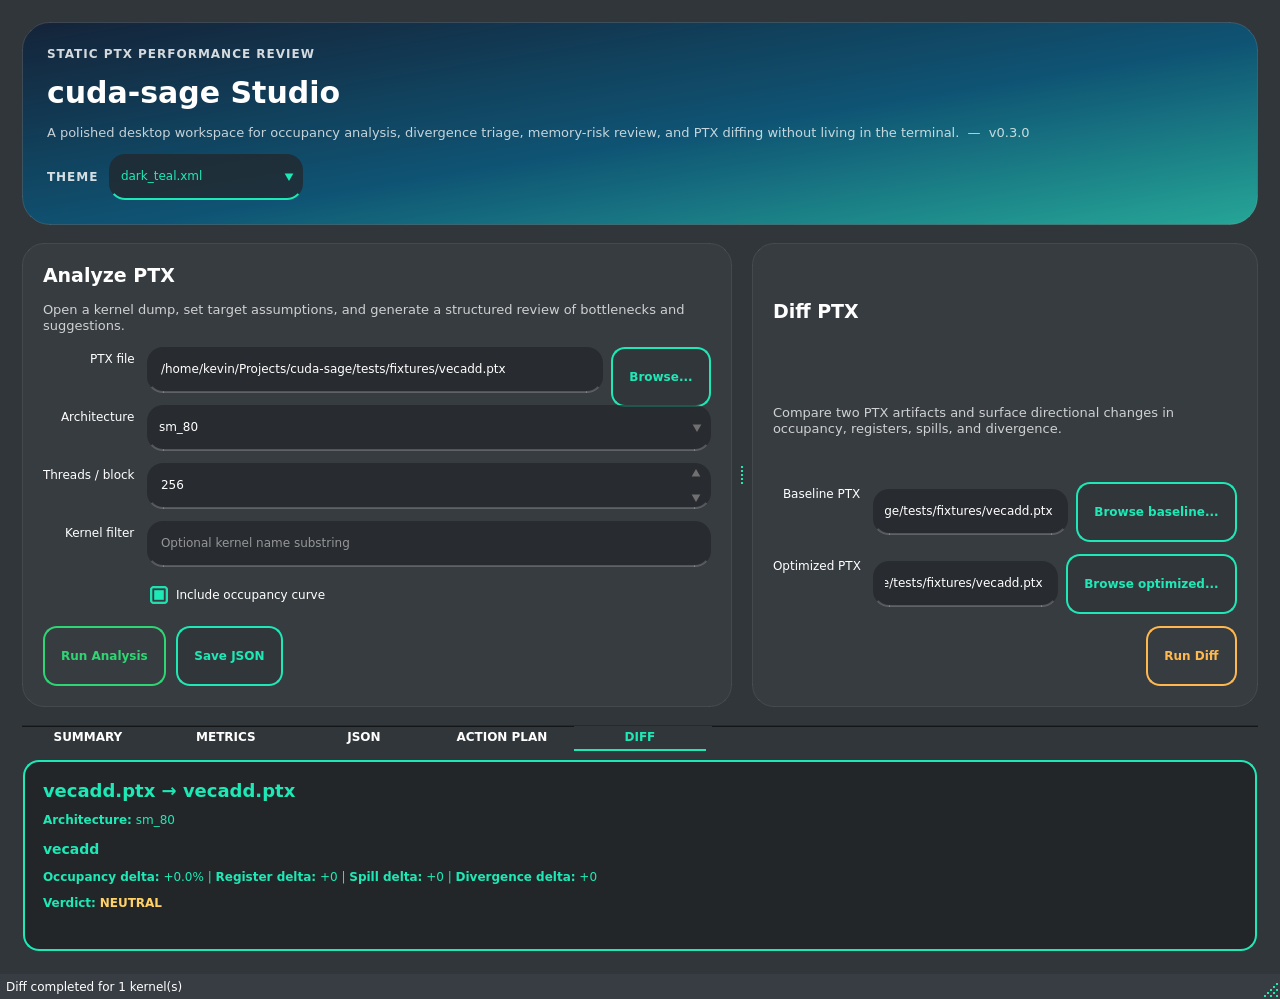
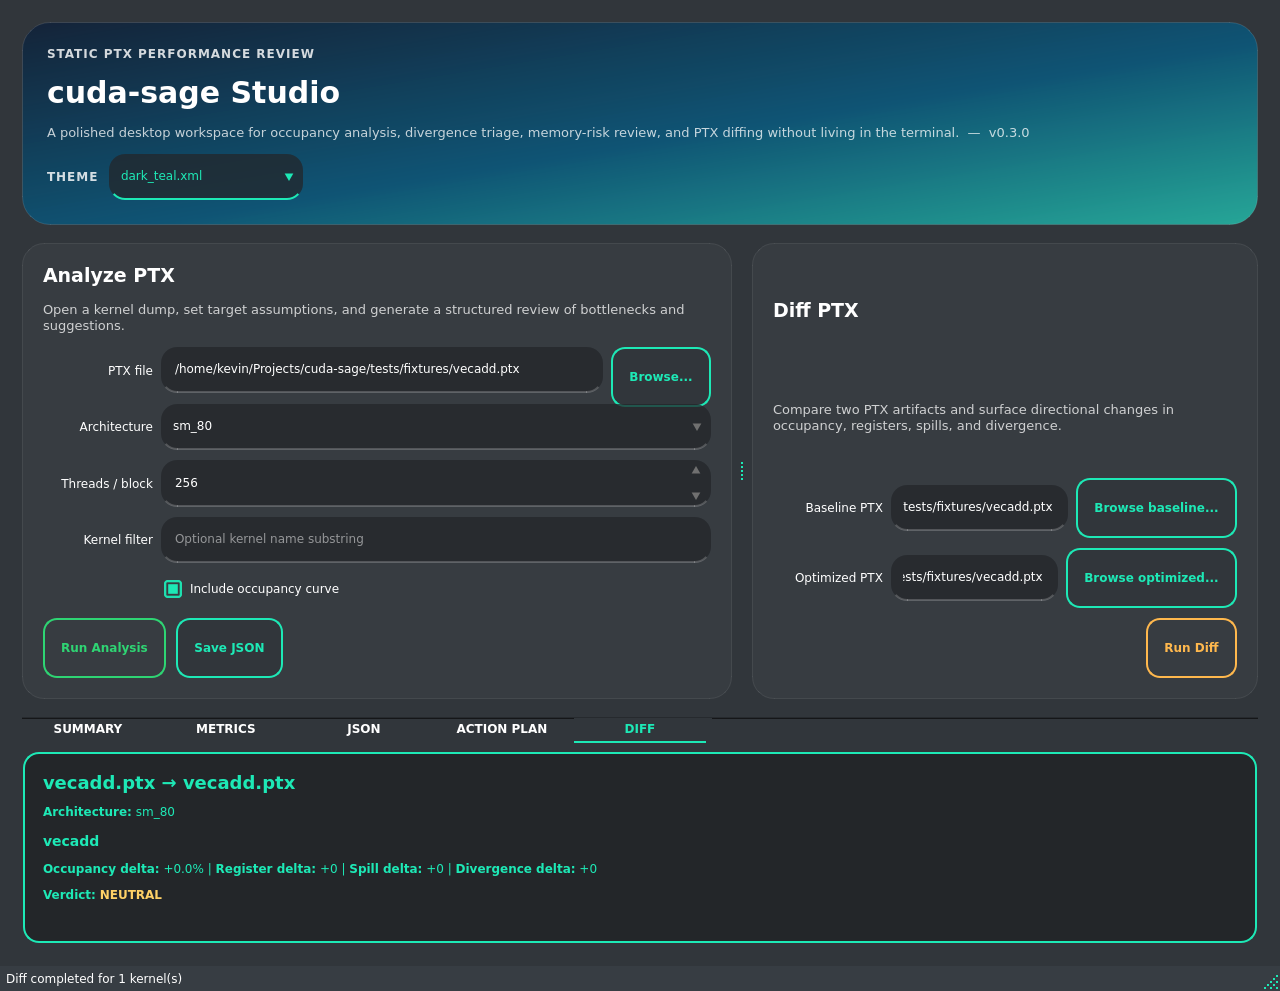
fix: replace QFormLayout with explicit HBox rows to fix dropdown truncation and browse button overlap

diff --git a/src/cudasage/gui.py b/src/cudasage/gui.py
@@ -754,53 +754,65 @@ def main() -> None:
             save_json_btn.setMinimumHeight(40)
             save_json_btn.clicked.connect(self._save_json)
 
-            # --- QFormLayout: the Qt standard for label-field pairs ---
-            # FieldGrowthPolicy.ExpandingFieldsGrow ensures every input
-            # stretches to fill available horizontal space, preventing the
-            # narrow/truncated dropdowns caused by manual column arithmetic.
-            analyze_form = QFormLayout()
-            analyze_form.setLabelAlignment(
-                Qt.AlignmentFlag.AlignRight | Qt.AlignmentFlag.AlignVCenter
-            )
-            analyze_form.setFieldGrowthPolicy(
-                QFormLayout.FieldGrowthPolicy.ExpandingFieldsGrow
-            )
-            analyze_form.setHorizontalSpacing(12)
-            analyze_form.setVerticalSpacing(12)
+            # --- Explicit per-row QHBoxLayouts ---
+            # QFormLayout.ExpandingFieldsGrow is overridden by qt-material QSS,
+            # causing combos and spinboxes to stay narrow. Using addWidget(w, 1)
+            # inside a plain QHBoxLayout is the only approach that is immune to
+            # stylesheet interference: stretch factor is a layout property, not
+            # a style property, so QSS can never shrink the field back down.
 
-            # PTX file row: path field + browse button side-by-side
-            ptx_row = QHBoxLayout()
-            ptx_row.setSpacing(8)
-            ptx_row.addWidget(self.ptx_path)
-            ptx_row.addWidget(pick_ptx_btn)
-            analyze_form.addRow("PTX file", ptx_row)
+            _LW = 110  # fixed label column width in pixels
 
-            # Architecture combo - must expand to fill label column
-            self.arch_combo.setSizePolicy(
-                QSizePolicy.Policy.Expanding, QSizePolicy.Policy.Fixed
-            )
-            analyze_form.addRow("Architecture", self.arch_combo)
+            def _lbl(text: str) -> object:
+                """Right-aligned label with fixed width to form a consistent label column."""
+                lab = QLabel(text)
+                lab.setFixedWidth(_LW)
+                lab.setAlignment(Qt.AlignmentFlag.AlignRight | Qt.AlignmentFlag.AlignVCenter)
+                return lab
 
-            # Threads/block spinner - expand to fill
-            self.threads_spin.setSizePolicy(
-                QSizePolicy.Policy.Expanding, QSizePolicy.Policy.Fixed
-            )
-            analyze_form.addRow("Threads / block", self.threads_spin)
+            def _hrow(*widgets, stretch_idx: int = 0) -> object:
+                """One form row: fixed label column + field(s) with explicit stretch."""
+                row = QHBoxLayout()
+                row.setSpacing(8)
+                row.setContentsMargins(0, 0, 0, 0)
+                for i, w in enumerate(widgets):
+                    row.addWidget(w, 1 if i == stretch_idx else 0)
+                return row
 
-            # Kernel filter - expand to fill
-            analyze_form.addRow("Kernel filter", self.kernel_filter)
+            # PTX file: [label] [path field, stretch=1] [Browse btn]
+            self.arch_combo.setSizePolicy(QSizePolicy.Policy.Expanding, QSizePolicy.Policy.Fixed)
+            self.threads_spin.setSizePolicy(QSizePolicy.Policy.Expanding, QSizePolicy.Policy.Fixed)
+            self.kernel_filter.setSizePolicy(QSizePolicy.Policy.Expanding, QSizePolicy.Policy.Fixed)
+            self.ptx_path.setSizePolicy(QSizePolicy.Policy.Expanding, QSizePolicy.Policy.Fixed)
 
-            # Checkbox - no label so it sits flush left
-            analyze_form.addRow("", self.curve_box)
+            ptx_row = _hrow(_lbl("PTX file"), self.ptx_path, pick_ptx_btn, stretch_idx=1)
+            arch_row = _hrow(_lbl("Architecture"), self.arch_combo, stretch_idx=1)
+            threads_row = _hrow(_lbl("Threads / block"), self.threads_spin, stretch_idx=1)
+            filter_row = _hrow(_lbl("Kernel filter"), self.kernel_filter, stretch_idx=1)
+
+            curve_row = QHBoxLayout()
+            curve_row.setSpacing(8)
+            curve_row.setContentsMargins(0, 0, 0, 0)
+            curve_row.addSpacing(_LW + 8)
+            curve_row.addWidget(self.curve_box)
+            curve_row.addStretch(1)
+
+            form_vbox = QVBoxLayout()
+            form_vbox.setSpacing(10)
+            form_vbox.setContentsMargins(0, 0, 0, 0)
+            form_vbox.addLayout(ptx_row)
+            form_vbox.addLayout(arch_row)
+            form_vbox.addLayout(threads_row)
+            form_vbox.addLayout(filter_row)
+            form_vbox.addLayout(curve_row)
 
             action_row = QHBoxLayout()
             action_row.setSpacing(10)
             action_row.addWidget(run_btn)
             action_row.addWidget(save_json_btn)
             action_row.addStretch(1)
-            analyze_panel_layout = analyze_layout
-            analyze_panel_layout.addLayout(analyze_form)
-            analyze_panel_layout.addLayout(action_row)
+            analyze_layout.addLayout(form_vbox)
+            analyze_layout.addLayout(action_row)
 
             diff_panel, diff_layout_root = self._make_panel(
                 "Diff PTX",
@@ -837,35 +849,25 @@ def main() -> None:
             run_diff_btn.setMinimumHeight(40)
             run_diff_btn.clicked.connect(self._run_diff)
 
-            # QFormLayout guarantees labels align right and fields expand to fill
-            diff_form = QFormLayout()
-            diff_form.setLabelAlignment(
-                Qt.AlignmentFlag.AlignRight | Qt.AlignmentFlag.AlignVCenter
-            )
-            diff_form.setFieldGrowthPolicy(
-                QFormLayout.FieldGrowthPolicy.ExpandingFieldsGrow
-            )
-            diff_form.setHorizontalSpacing(12)
-            diff_form.setVerticalSpacing(12)
+            # Diff panel: same explicit-HBox-per-row approach
+            self.base_path.setSizePolicy(QSizePolicy.Policy.Expanding, QSizePolicy.Policy.Fixed)
+            self.opt_path.setSizePolicy(QSizePolicy.Policy.Expanding, QSizePolicy.Policy.Fixed)
 
-            base_row = QHBoxLayout()
-            base_row.setSpacing(8)
-            base_row.addWidget(self.base_path)
-            base_row.addWidget(base_btn)
-            diff_form.addRow("Baseline PTX", base_row)
-
-            opt_row = QHBoxLayout()
-            opt_row.setSpacing(8)
-            opt_row.addWidget(self.opt_path)
-            opt_row.addWidget(opt_btn)
-            diff_form.addRow("Optimized PTX", opt_row)
+            base_file_row = _hrow(_lbl("Baseline PTX"), self.base_path, base_btn, stretch_idx=1)
+            opt_file_row = _hrow(_lbl("Optimized PTX"), self.opt_path, opt_btn, stretch_idx=1)
 
             run_diff_row = QHBoxLayout()
             run_diff_row.addStretch(1)
             run_diff_row.addWidget(run_diff_btn)
-            diff_form.addRow("", run_diff_row)
 
-            diff_layout_root.addLayout(diff_form)
+            diff_vbox = QVBoxLayout()
+            diff_vbox.setSpacing(10)
+            diff_vbox.setContentsMargins(0, 0, 0, 0)
+            diff_vbox.addLayout(base_file_row)
+            diff_vbox.addLayout(opt_file_row)
+            diff_vbox.addLayout(run_diff_row)
+
+            diff_layout_root.addLayout(diff_vbox)
 
             controls.addWidget(analyze_panel)
             controls.addWidget(diff_panel)
